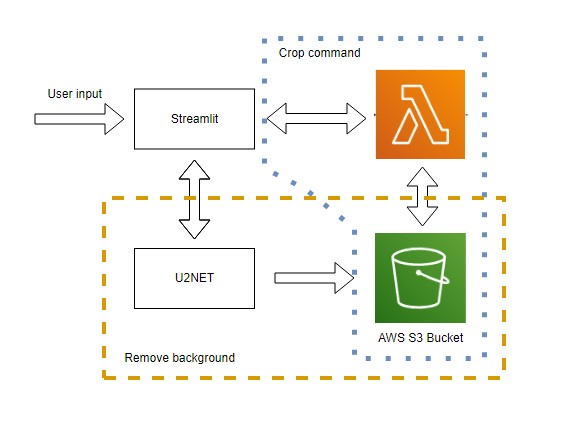
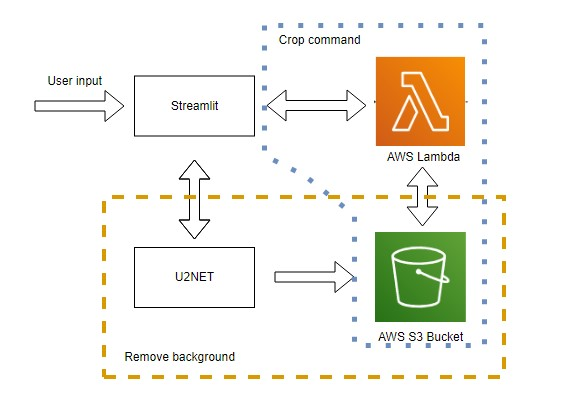
S3 upload, fixd diagram

Changed region(s): [[0.0605, 0.058, 0.9075, 0.9275], [0.3025, 0.6377, 0.3932, 0.6957]]

diff --git a/src/front/streamlit_handling.py b/src/front/streamlit_handling.py
@@ -8,7 +8,6 @@ from io import BytesIO
 import os
 import streamlit as st
 
-
 def save_uploadedfile(data_path: Path, uploadedfile: st.file_uploader):
 
     filename = uploadedfile.name
@@ -42,11 +41,19 @@ def streamlit_handling(temp_path: Path, net):
         save_uploadedfile(inputs_dir, uploaded_file)
         bg_removed = remove_bg(inputs_dir, uploaded_file.name, net)
 
-        mask_img = Image.open(str(temp_path) + "/masks/" + filename + ".png")
-        result_img = Image.open(str(temp_path) + "/results/" + filename + ".png")
+        mask_path = str(temp_path) + "/masks/" + filename + ".png"
+        result_path = str(temp_path) + "/results/" + filename + ".png" 
+
+        mask_img = Image.open(mask_path)
+        result_img = Image.open(result_path)
 
         st.image([mask_img, result_img], width=350, caption=["Generated mask", "Final result"])
         st.text(str(temp_path) + "/masks/" + filename + ".png")
 
+        st.session_state.mask_path = mask_path
+        st.session_state.result_path = result_path
+
     if st.button('Upload image', disabled=not bg_removed):
-        sender.send_image(inputs_dir / filename, filename)
+        sender.send_image(inputs_dir / uploaded_file.name, uploaded_file.name)
+        sender.send_image(st.session_state.mask_path, filename + "_mask.png")
+        sender.send_image(st.session_state.result_path, filename + "_result.png")

diff --git a/src/features/s3_sender.py b/src/features/s3_sender.py
@@ -1,7 +1,6 @@
-import boto3
-import json
 from PIL import Image
-from dotenv import load_dotenv
+
+import boto3
 import os
 
 aws_access_key_id = os.getenv('env_aws_access_key_id')
@@ -10,7 +9,7 @@ aws_secret_access_key = os.getenv('env_aws_secret_access_key')
 class S3SENDER:
     """Sends data to AWS S3 bucket"""
 
-    def __init__(self, user_email: str, bucket: str):
+    def __init__(self, user_email: str, bucket: str) -> None:
 
         self.text = ''
 
